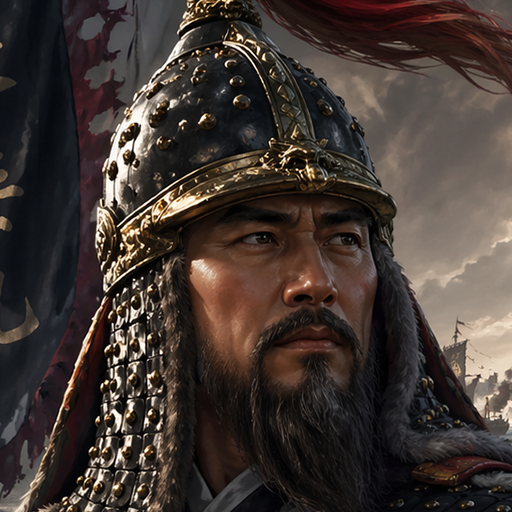
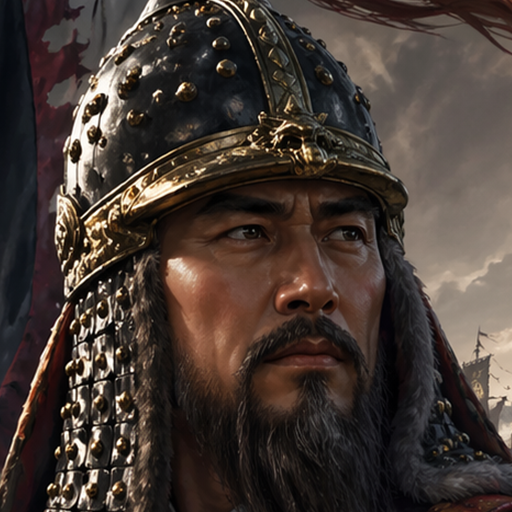
v0.67j-asset-main03 권율/하후돈 battlefield 초상 적용
이순신,권율,하후돈 이미지 삽입함

diff --git a/agent/NEXT_TASKS.md b/agent/NEXT_TASKS.md
@@ -1,37 +1,31 @@
 # NEXT TASKS
 
 ## Current Stable Baseline
-v0.67i-2 MVP 3v3 QA Stable
-
-## Priority 1
 v0.67j-2 Reinforce01 QA Stable
 
-Goal:
-- QA the current reinforce01 round-2 entry prototype on top of the `3v3` stable baseline.
-- Confirm reinforce01 stays excluded before deployment and joins actor/target/occupied paths only after deployment.
-- Confirm existing `3v3` main-unit battle flow remains stable after reinforce entry.
-
-## Priority 2
+## Priority 1
 v0.67j-3 Reinforce02 Entry Prototype
 
 Gate:
-- Do not start until v0.67j-2 confirms:
-  - reinforce01 round-start deployment is stable in manual and auto battle
-  - actor / target / occupied inclusion changes only after `deployed=true`
-  - reinforce01 click / HP / portrait / facing behavior remains stable after entry
+- v0.67j-2 confirmed:
+  - reinforce01 starts hidden with `deployed=false`
+  - reinforce01 pair deploys on round `2`
+  - actor / target counts move `3/3 -> 4/4`
+  - alive deployed count moves `6 -> 8`
+  - auto-target parity and enemy AI parity remain OK
 
 Goal:
 - Prototype `reinforce_02` delayed entry on top of the reinforce01-validated scaffold.
 - Keep reinforce02 excluded from actor/target/occupied paths until its own deployment timing is enabled.
 
-## Priority 3
+## Priority 2
 v0.67 Slot Count Expansion Plan
 
 Goal:
 - Continue the registry-first migration toward scalable slot capacity.
 - Use the current scaffold as the base for array-backed state access and future slot activation.
 
-## Priority 4
+## Priority 3
 Auto Battle QA
 
 Goal:
@@ -42,6 +36,28 @@ Goal:
 
 Notes:
 - Auto battle prototype, stop hotfix, battle-dust tuning, dust density hotfix, and dust source isolation hotfix are now in place.
+
+## Completed
+v0.67j-2 Reinforce01 QA Stable
+
+Completed items:
+- Revalidated the current reinforce01 round-`2` entry prototype with no code or scene changes.
+- Confirmed battle start:
+  - alive deployed count = `6`
+  - actor candidates ally/enemy = `3/3`
+  - target candidates ally/enemy = `3/3`
+  - `ally_reinforce_01` / `enemy_reinforce_01` = hidden, `deployed=false`
+- Confirmed round `2` post-deploy:
+  - alive deployed count = `8`
+  - actor candidates ally/enemy = `4/4`
+  - target candidates ally/enemy = `4/4`
+  - `ally_reinforce_01` / `enemy_reinforce_01` = visible, `deployed=true`
+- Confirmed reinforce02 remains empty-container scaffold only and undeployed.
+- Kept `Battle_Fullscreen_Test.tscn` unchanged.
+- Kept `scripts/battle_web_import_test.gd` unchanged.
+- Kept `scripts/unit_visual_slot.gd` unchanged.
+- Headless project launch exit code `0`.
+- Headless `Battle_Fullscreen_Test.tscn` launch exit code `0`.
 
 ## Completed
 v0.67g MVP 3 Main + 2 Reinforce Layout Plan

diff --git a/agent/CURRENT_STATE.md b/agent/CURRENT_STATE.md
@@ -4,7 +4,49 @@
 SamWar_BattleLab
 
 ## Current Stable Baseline
-v0.67i-2 MVP 3v3 QA Stable
+v0.67j-2 Reinforce01 QA Stable
+
+## v0.67j-2 Reinforce01 QA Stable State
+- This step is documentation and verification only.
+- No `Battle_Fullscreen_Test.tscn` change was made.
+- No `scripts/battle_web_import_test.gd` change was made.
+- No `scripts/unit_visual_slot.gd` change was made.
+- Confirmed battle-start deployed roster:
+  - `ally_main_01` = 이순신
+  - `ally_main_02` = 정도전
+  - `ally_main_03` = 권율
+  - `enemy_main_01` = 관우
+  - `enemy_main_02` = 장비
+  - `enemy_main_03` = 하후돈
+- Confirmed battle-start reinforce state:
+  - `ally_reinforce_01` hidden / `deployed=false`
+  - `enemy_reinforce_01` hidden / `deployed=false`
+- Confirmed round `2` reinforce state:
+  - `ally_reinforce_01` visible / `deployed=true`
+  - `enemy_reinforce_01` visible / `deployed=true`
+- Headless verification confirms:
+  - project launch exit code `0`
+  - `Battle_Fullscreen_Test.tscn` launch exit code `0`
+  - no `GDScript::reload` warning on the project/scene verification path
+  - pre-deploy alive deployed count = `6`
+  - pre-deploy actor candidates ally/enemy = `3/3`
+  - pre-deploy target candidates ally/enemy = `3/3`
+  - round `2` post-deploy alive deployed count = `8`
+  - round `2` post-deploy actor candidates ally/enemy = `4/4`
+  - round `2` post-deploy target candidates ally/enemy = `4/4`
+  - reinforce01 HP bar / troop label visible after deploy = `true/true`
+  - reinforce01 facing indicator refs present after deploy = `true/true`
+  - auto target parity OK = `true`
+  - enemy AI target parity OK = `true`
+  - enemy actor order parity OK = `true`
+- Confirmed reinforce02 remains empty-container scaffold only:
+  - `ally_reinforce_02`
+  - `enemy_reinforce_02`
+  - `deployed=false` 유지
+  - actor / target / occupied 후보 제외 유지
+- Kept auto-battle scoring unchanged.
+- Kept enemy AI target policy unchanged.
+- Kept HP bar, troop label, HP alpha `0.8`, unit-over-HP layer order, enemy portrait vertical facing layout, enemy move facing-indicator hide/show timing, and HP `0` cleanup behavior unchanged.
 
 ## v0.67j-1 Reinforce01 Entry Prototype State
 - Updated `Battle_Fullscreen_Test.tscn`, `scripts/battle_web_import_test.gd`, and agent docs only.

diff --git a/agent/SESSION_LOG.md b/agent/SESSION_LOG.md
@@ -1295,3 +1295,52 @@ Remaining tasks:
 - v0.65i ClickArea / READY / FacingIndicator Integration Review.
 - Target selection policy for overlapping living units.
 - Debug cleanup for root slot and attack click logs.
+## 2026-05-22
+
+Starting baseline:
+- v0.67j-1 Reinforce01 Entry Prototype Stable
+
+Goal:
+- v0.67j-2 Reinforce01 QA Stable
+
+Completed:
+- Revalidated the reinforce01 round-`2` entry prototype without modifying battle code or scene files.
+- Confirmed headless project launch exit code `0`.
+- Confirmed headless `Battle_Fullscreen_Test.tscn` launch exit code `0`.
+- Confirmed no `GDScript::reload` warning on the project/scene verification path.
+- Confirmed battle-start deployed roster remains `3v3`:
+  - ally = 이순신 / 정도전 / 권율
+  - enemy = 관우 / 장비 / 하후돈
+- Confirmed battle-start reinforce state:
+  - `ally_reinforce_01` / `enemy_reinforce_01` hidden
+  - `deployed=false`
+  - alive deployed count = `6`
+  - actor candidates ally/enemy = `3/3`
+  - target candidates ally/enemy = `3/3`
+- Confirmed round `2` post-deploy reinforce state:
+  - `ally_reinforce_01` / `enemy_reinforce_01` visible
+  - `deployed=true`
+  - alive deployed count = `8`
+  - actor candidates ally/enemy = `4/4`
+  - target candidates ally/enemy = `4/4`
+- Confirmed reinforce01 HP bar / troop label visibility restores after deploy.
+- Confirmed reinforce01 facing indicator references remain present after deploy.
+- Confirmed reinforce02 remains empty slot container only and `deployed=false`.
+- Confirmed auto-target parity OK, enemy AI target parity OK, and enemy actor order parity OK.
+- Did not modify `Battle_Fullscreen_Test.tscn`.
+- Did not modify `scripts/battle_web_import_test.gd`.
+- Did not modify `scripts/unit_visual_slot.gd`.
+- Updated:
+  - `agent/CURRENT_STATE.md`
+  - `agent/NEXT_TASKS.md`
+  - `agent/CHANGELOG.md`
+  - `agent/SESSION_LOG.md`
+
+QA:
+- Headless project launch passed.
+- Headless `Battle_Fullscreen_Test.tscn` launch passed.
+- Manual `F6` QA remains pending in editor; this environment cannot execute interactive editor checks.
+
+Remaining tasks:
+- v0.67j-3 Reinforce02 Entry Prototype
+- Auto battle editor-side stop responsiveness QA

diff --git a/agent/CHANGELOG.md b/agent/CHANGELOG.md
@@ -1,5 +1,28 @@
 # CHANGELOG
 
+## v0.67j-2 Reinforce01 QA Stable
+
+- This step is documentation and verification only.
+- Revalidated the current reinforce01 round-`2` entry baseline with no runtime code or scene edits.
+- Confirmed pre-deploy state:
+  - alive deployed count = `6`
+  - actor candidates ally/enemy = `3/3`
+  - target candidates ally/enemy = `3/3`
+  - reinforce01 pair hidden with `deployed=false`
+- Confirmed round `2` post-deploy state:
+  - alive deployed count = `8`
+  - actor candidates ally/enemy = `4/4`
+  - target candidates ally/enemy = `4/4`
+  - reinforce01 pair visible with `deployed=true`
+- Confirmed reinforce01 HP bar / troop label restore correctly after deploy.
+- Confirmed auto-target parity OK, enemy AI target parity OK, and enemy actor order parity OK.
+- Confirmed reinforce02 remains empty-container scaffold only and undeployed.
+- Kept `Battle_Fullscreen_Test.tscn` unchanged.
+- Kept `scripts/battle_web_import_test.gd` unchanged.
+- Kept `scripts/unit_visual_slot.gd` unchanged.
+- Headless project launch exit code `0`.
+- Headless `Battle_Fullscreen_Test.tscn` launch exit code `0`.
+
 ## v0.67j-1 Reinforce01 Entry Prototype
 
 - Updated `Battle_Fullscreen_Test.tscn`, `scripts/battle_web_import_test.gd`, and agent docs only.
